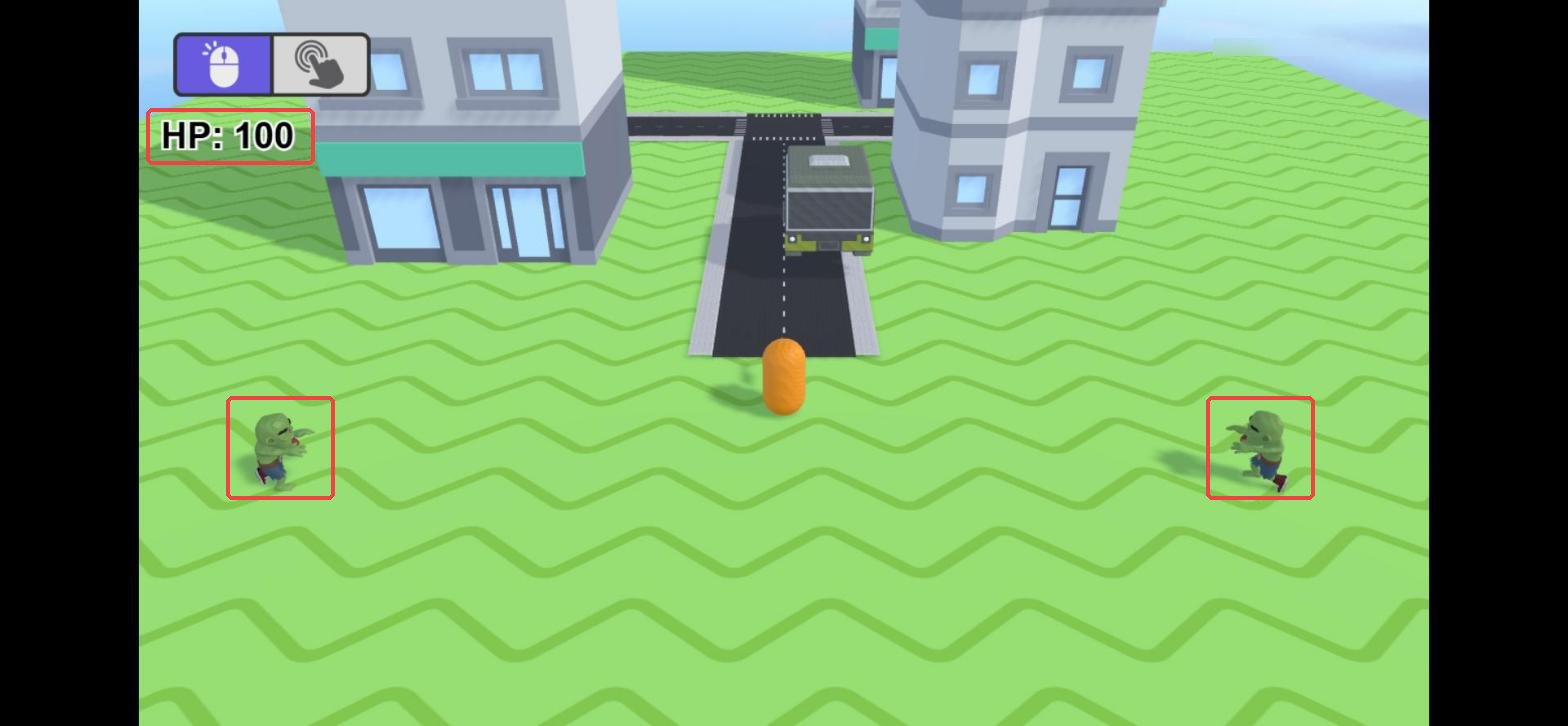
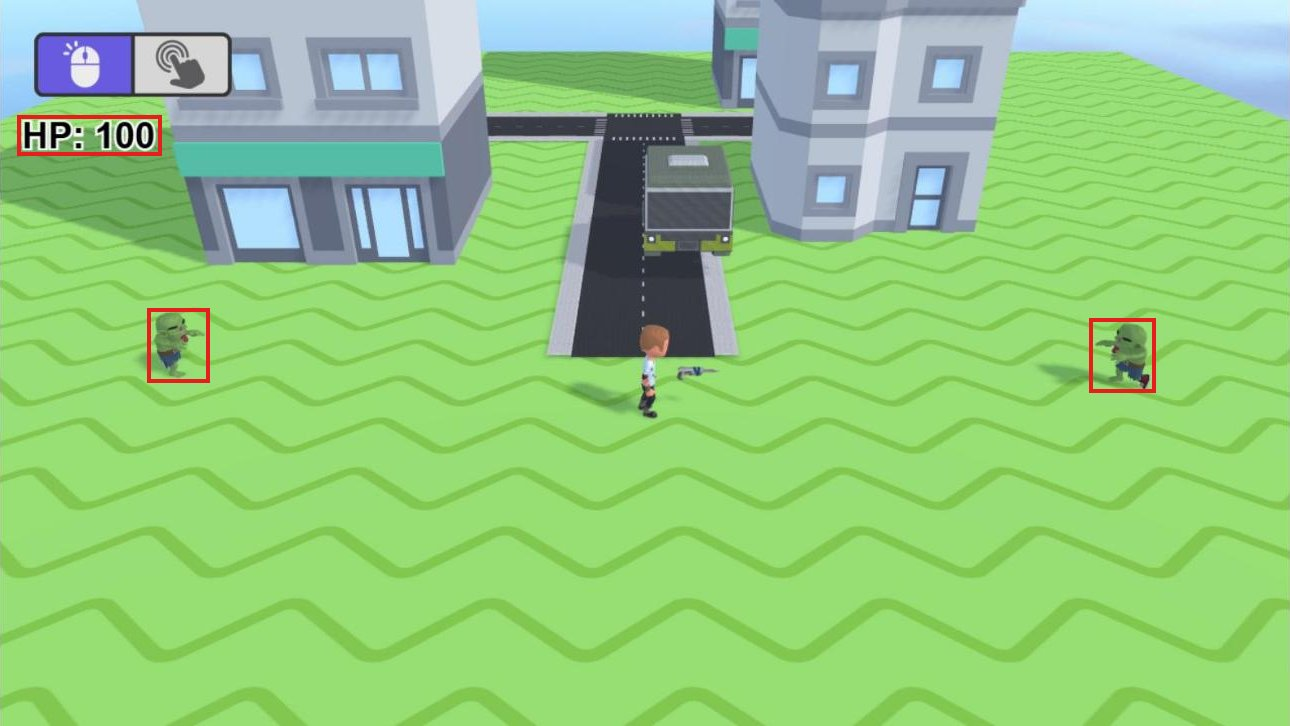
3Dアクション編 プレビュー写真を人型キャラで撮り直し
Claude-Session: https://claude.ai/code/session_01DMPnKNKC4bdQV9DJ2hiqQu

diff --git a/gdevelop-3d-ja/chapter4.html b/gdevelop-3d-ja/chapter4.html
@@ -265,13 +265,11 @@
         走ってにげたり、トラックに乗ったりしてみよう。</p>
       <figure class="figure">
         <a href="img/ch4-13_preview-walk.jpg" target="_blank" rel="noopener" title="クリックで大きく表示"><img src="img/ch4-13_preview-walk.jpg" alt="プレビューで左右からゾンビ（赤枠）が歩いてくる。左上にHP: 100（赤枠）" loading="lazy"></a>
-        <figcaption>左右からゾンビ（赤枠）が歩いてくる。<br>
-          写真は、主人公を人の形に入れかえる前に撮ったもの（オレンジのカプセルが主人公）</figcaption>
+        <figcaption>左右からゾンビ（赤枠）が歩いてくる。</figcaption>
       </figure>
       <figure class="figure">
         <a href="img/ch4-14_preview-attack.jpg" target="_blank" rel="noopener" title="クリックで大きく表示"><img src="img/ch4-14_preview-attack.jpg" alt="プレビューで主人公がゾンビにかこまれ（赤枠）、HPが24にへっている（赤枠）" loading="lazy"></a>
-        <figcaption>かこまれると HP がへっていく（赤枠）。<br>
-          この写真も、主人公を入れかえる前に撮ったもの</figcaption>
+        <figcaption>かこまれると HP がへっていく（赤枠）。</figcaption>
       </figure>
     </div>
 

diff --git a/gdevelop-3d-ja/chapter5.html b/gdevelop-3d-ja/chapter5.html
@@ -319,8 +319,7 @@
         3秒ごとにゾンビがふえていくので、どこまでたおせるかチャレンジ！</p>
       <figure class="figure">
         <a href="img/ch5-15_preview-kills.jpg" target="_blank" rel="noopener" title="クリックで大きく表示"><img src="img/ch5-15_preview-kills.jpg" alt="プレビューで、Kills: 3（赤枠）。奥のゾンビに弾が飛んでいる（赤枠）" loading="lazy"></a>
-        <figcaption>弾を当ててたおすと Kills がふえる（赤枠）。<br>
-          写真は、主人公を人の形に入れかえる前に撮ったもの（オレンジのカプセルが主人公）</figcaption>
+        <figcaption>弾を当ててたおすと Kills がふえる（赤枠）。</figcaption>
       </figure>
       <figure class="figure">
         <a href="img/ch5-16_preview-truck.jpg" target="_blank" rel="noopener" title="クリックで大きく表示"><img src="img/ch5-16_preview-truck.jpg" alt="プレビューで、トラック（赤枠）にゾンビ（赤枠）が向かってくる。Kills: 6（赤枠）" loading="lazy"></a>

diff --git a/gdevelop-3d-ja/chapter6.html b/gdevelop-3d-ja/chapter6.html
@@ -364,8 +364,7 @@ WASD：いどう　マウス：まわりを見る　クリック：うつ
         ゾンビは力（フォース）で動いているので、建物をすりぬけたままです（ゾンビらしい、ということにしておこう）。</p>
       <figure class="figure">
         <a href="img/ch6-05_preview-wall.jpg" target="_blank" rel="noopener" title="クリックで大きく表示"><img src="img/ch6-05_preview-wall.jpg" alt="プレビューで、主人公が建物のかべの前で止まっている（赤枠）" loading="lazy"></a>
-        <figcaption>建物のかべで止まるようになった（赤枠）。<br>
-          写真は、主人公を人の形に入れかえる前に撮ったもの（オレンジのカプセルが主人公）</figcaption>
+        <figcaption>建物のかべで止まるようになった（赤枠）。</figcaption>
       </figure>
     </div>
 

diff --git a/gdevelop-3d-ja/chapter3.html b/gdevelop-3d-ja/chapter3.html
@@ -222,8 +222,7 @@
         <code>A</code>・<code>D</code> で向きを変えながら撃ってみよう。</p>
       <figure class="figure">
         <a href="img/ch3-11_preview-shoot.jpg" target="_blank" rel="noopener" title="クリックで大きく表示"><img src="img/ch3-11_preview-shoot.jpg" alt="プレビューで、主人公の横にピストル（赤枠）があり、右に黄色い弾（赤枠）が飛んでいる" loading="lazy"></a>
-        <figcaption>ピストル（左の赤枠）から弾（右の赤枠）が飛んでいく。<br>
-          写真は、主人公を人の形に入れかえる前に撮ったもの（オレンジのカプセルが主人公）</figcaption>
+        <figcaption>ピストル（左の赤枠）から弾（右の赤枠）が飛んでいく。</figcaption>
       </figure>
     </div>
 
